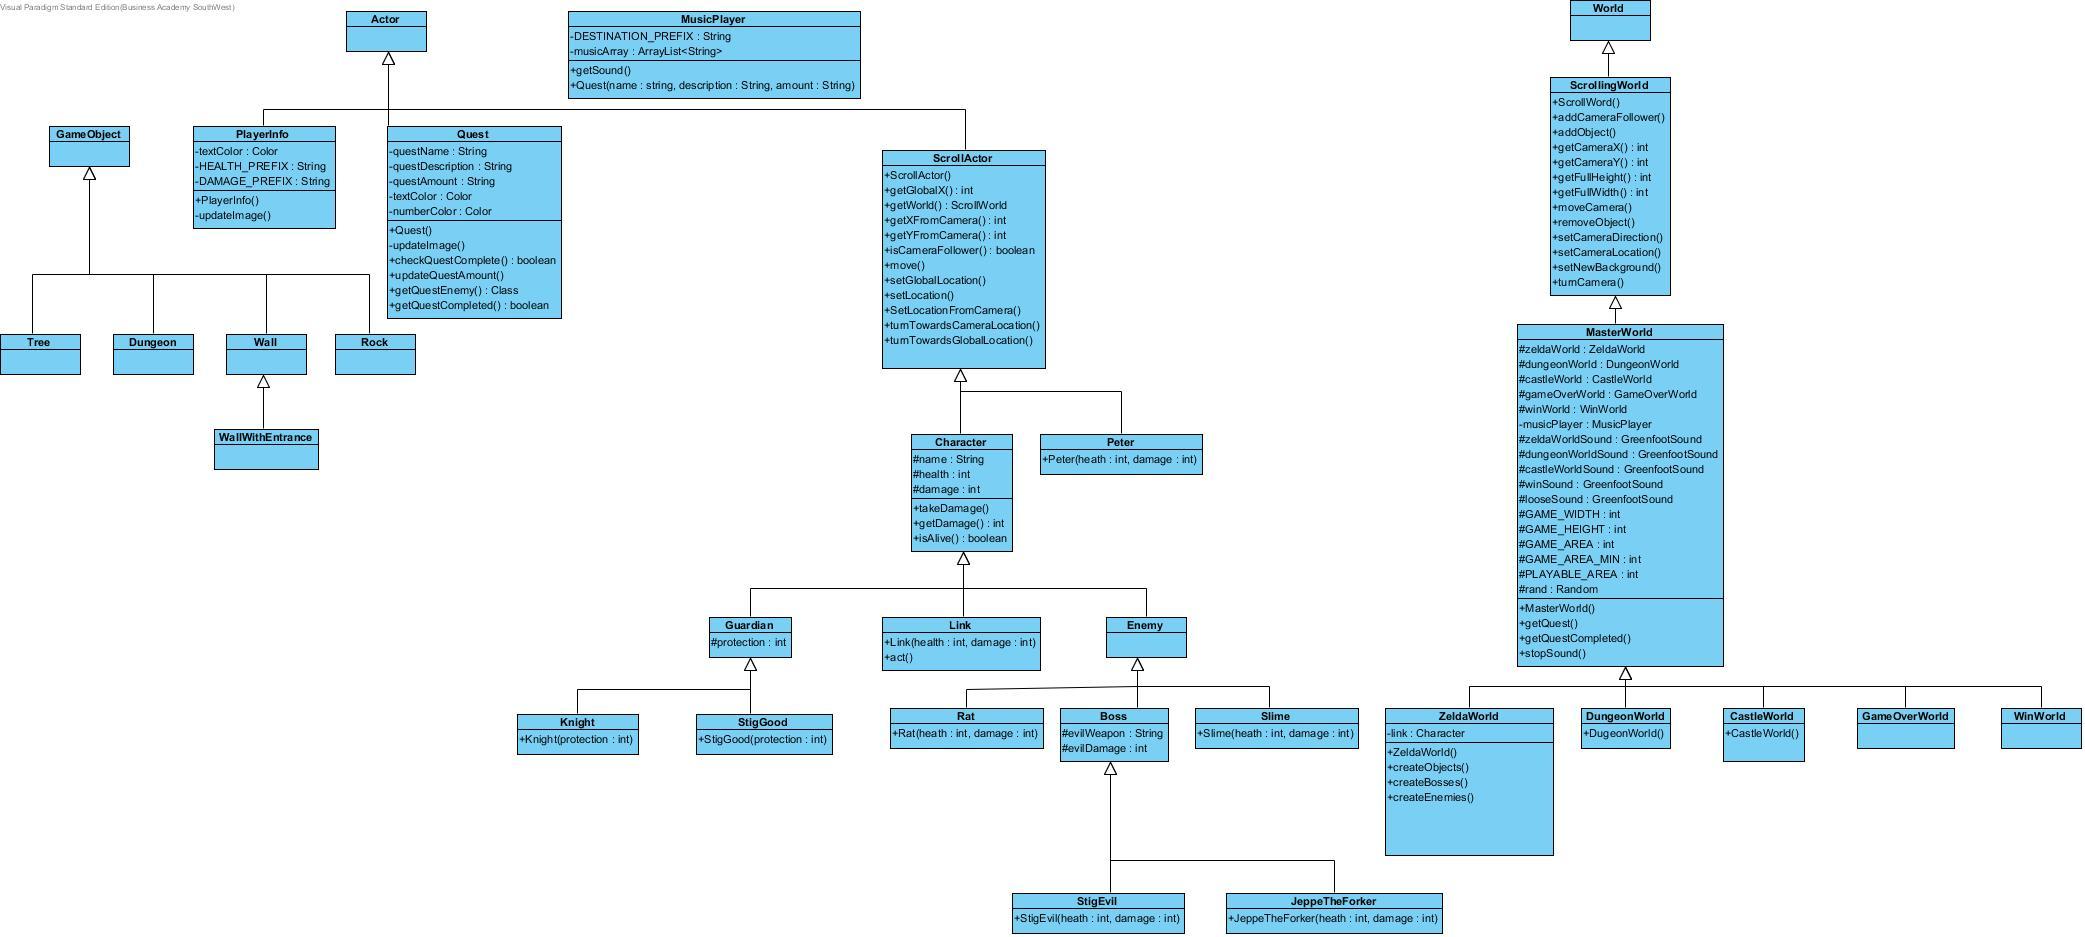
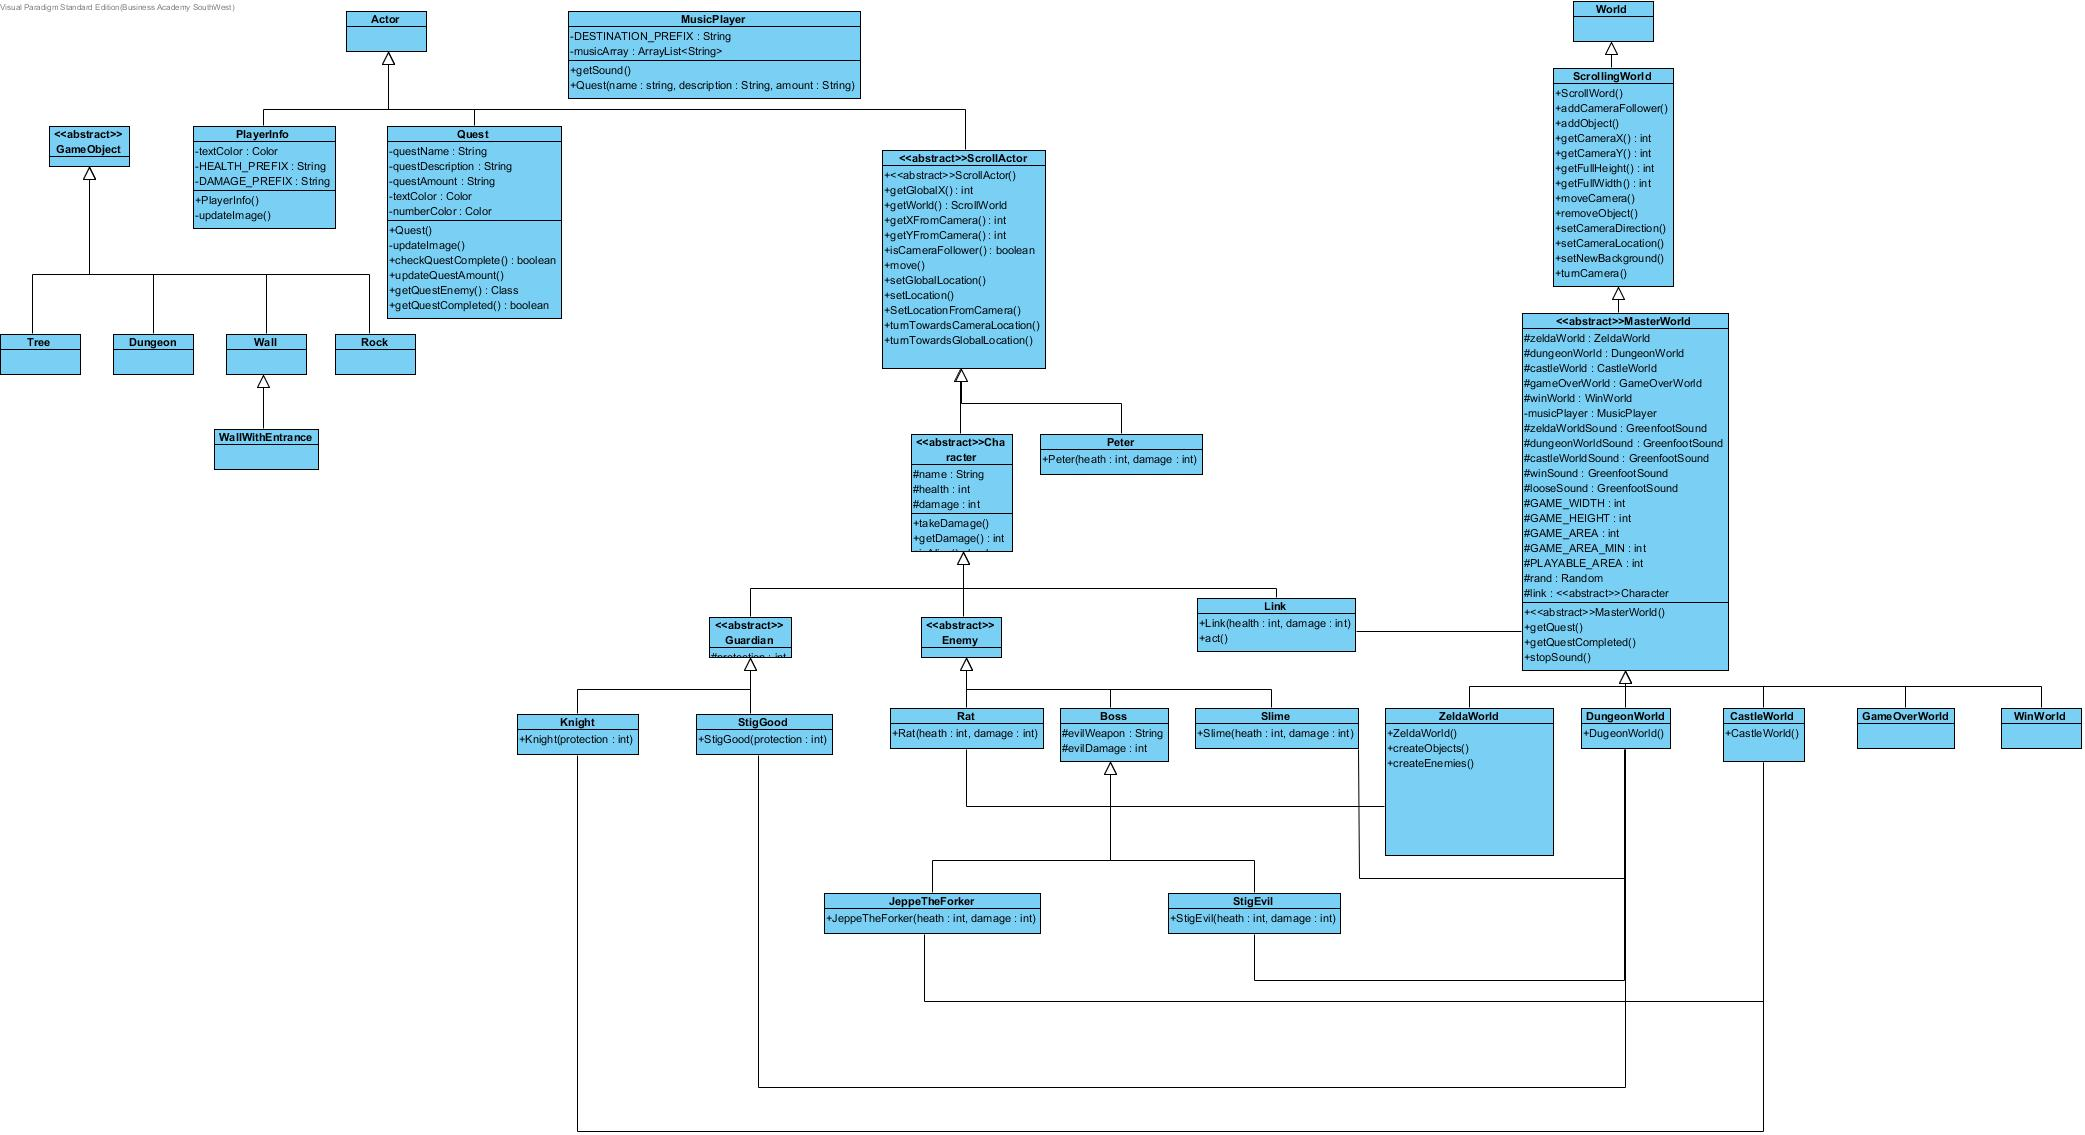
Updated UML

diff --git a/src/ZeldaWorld/MasterWorld.java b/src/ZeldaWorld/MasterWorld.java
@@ -13,6 +13,7 @@ public abstract class MasterWorld extends ScrollWorld
     protected static final int GAME_AREA = 1000;
     protected static final int GAME_AREA_MIN = 250;
     protected static final int PLAYABLE_AREA = 600;
+    protected static Character link;
     protected static ZeldaWorld zeldaWorld;
     protected static DungeonWorld dungeonWorld;
     protected static CastleWorld castleWorld;

diff --git a/src/ZeldaWorld/ZeldaWorld.java b/src/ZeldaWorld/ZeldaWorld.java
@@ -8,7 +8,6 @@ import java.util.*;
 public class ZeldaWorld extends MasterWorld
 {
     private boolean dungeonEntranceCreated;
-    private static Character link;
     /**
      * Constructor for objects of class DemoWorld.
      */
